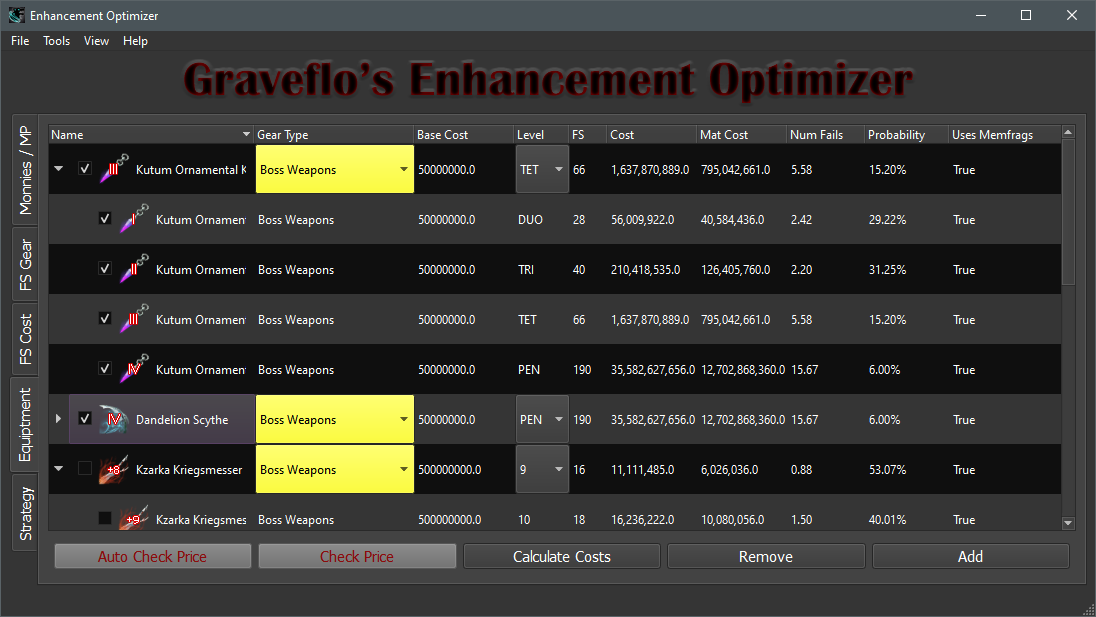
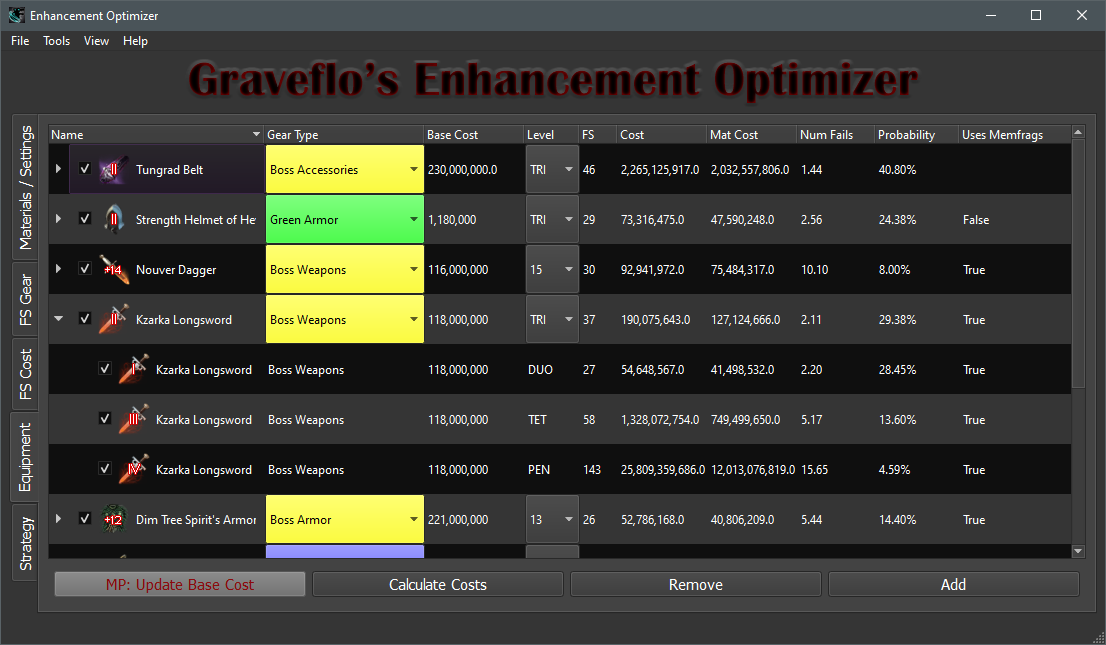
small clean up

diff --git a/model.py b/model.py
@@ -419,7 +419,7 @@ class Enhance_model(object):
         num_fs = settings[EnhanceSettings.P_NUM_FS]
 
         if len(euip) < 1:
-            raise ValueError('No enhancement Items')
+            raise ValueError('No enhancement items to calculate.')
 
         try:
             meth = self.cost_funcs[settings[settings.P_COST_FUNC]]

diff --git a/README.md b/README.md
@@ -110,7 +110,7 @@ The bottom list is a break down of fail enhancing gear.
 
 ### 6.) Press the "Open Guide Overlay" button at the bottom of the "Strategy" tab
 <p align="center">
-  <img src="Images/compact_overlay.png">
+  <img src="Images/compact_overlay2.png">
 </p>
 
 * This will bring up a small window that will walk you through what to do step by step.
